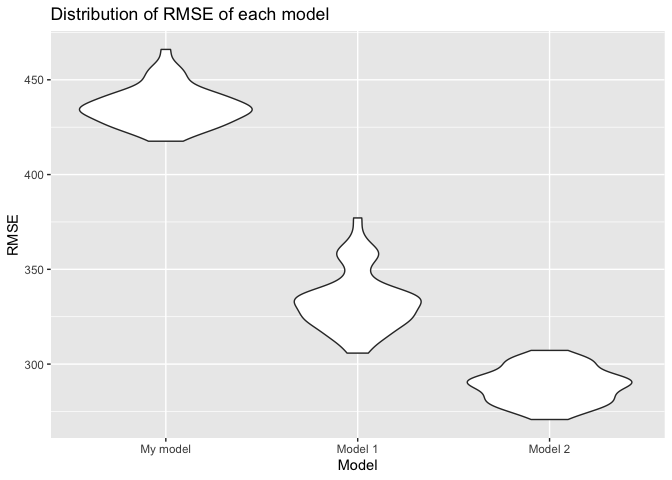
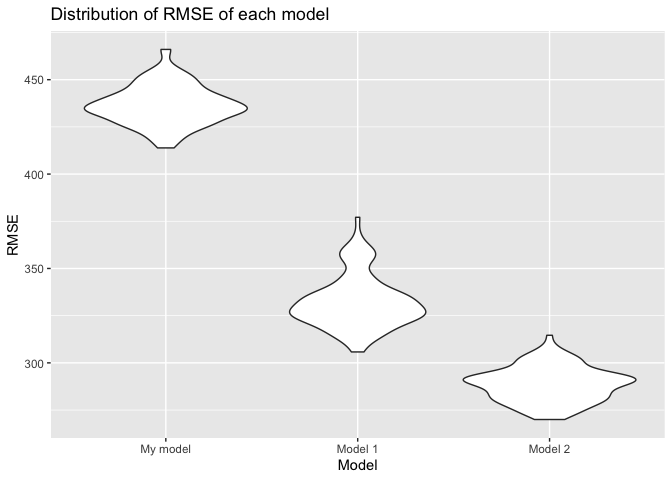
homework 2.0 (fix random seed)

diff --git a/p8105_hw6_kz2411.md b/p8105_hw6_kz2411.md
@@ -3,11 +3,6 @@ p8105\_hw6\_kz2411
 Keming Zhang
 11/29/2021
 
-``` r
-#fix random
-set.seed(1)
-```
-
 ## Problem 1
 
 ``` r
@@ -113,8 +108,11 @@ ggplot(pred_resid, aes(x = pred, y = resid)) +
 ![](p8105_hw6_kz2411_files/figure-gfm/residual%20and%20prediction%20plot-1.png)<!-- -->
 
 ``` r
+#fix random
+set.seed(1)
+
 #cross validation split data
-cv_df <- crossv_mc(child_data_clean, n = 50) %>% 
+cv_df <- crossv_mc(child_data_clean, n = 100) %>% 
   mutate(
     train = map(train, as_tibble),
     test = map(test, as_tibble)
@@ -192,6 +190,9 @@ weather_df =
     ## file min/max dates: 1869-01-01 / 2021-11-30
 
 ``` r
+#fix random
+set.seed(1)
+
 #bootstrapping
 bootstraps <- weather_df %>%
   modelr::bootstrap(n = 5000)
@@ -256,8 +257,9 @@ log_distribution
 
 ![](p8105_hw6_kz2411_files/figure-gfm/plot-2.png)<!-- -->
 
-The distribution of *r̂*<sup>2</sup> is normally skewed. The distribution
-of *l**o**g*(*β̂*<sub>0</sub>*β̂*<sub>1</sub>) is also normally skewed.
+The distribution of *r̂*<sup>2</sup> is normally distributed. The
+distribution of *l**o**g*(*β̂*<sub>0</sub>*β̂*<sub>1</sub>) is also
+normally distributed.
 
 ``` r
 #95% confidence interval of R^2
@@ -274,7 +276,7 @@ r2_conf %>% knitr::kable(digits = 3)
 |----------:|----------:|
 |     0.894 |     0.927 |
 
-The 95% confidence interval of *(̂**r*)<sup>2</sup> is \[0.894,0.927\]
+The 95% confidence interval of *r̂*<sup>2</sup> is \[0.894,0.927\]
 
 ``` r
 #95% confidence interval of log
@@ -289,7 +291,7 @@ log_conf %>% knitr::kable(digits = 3)
 
 | log\_lower | log\_upper |
 |-----------:|-----------:|
-|      1.964 |      2.059 |
+|      1.965 |      2.059 |
 
 The 95% confidence interval of *l**o**g*(*β̂*<sub>0</sub>*β̂*<sub>1</sub>)
 is \[1.964,2.059\]
